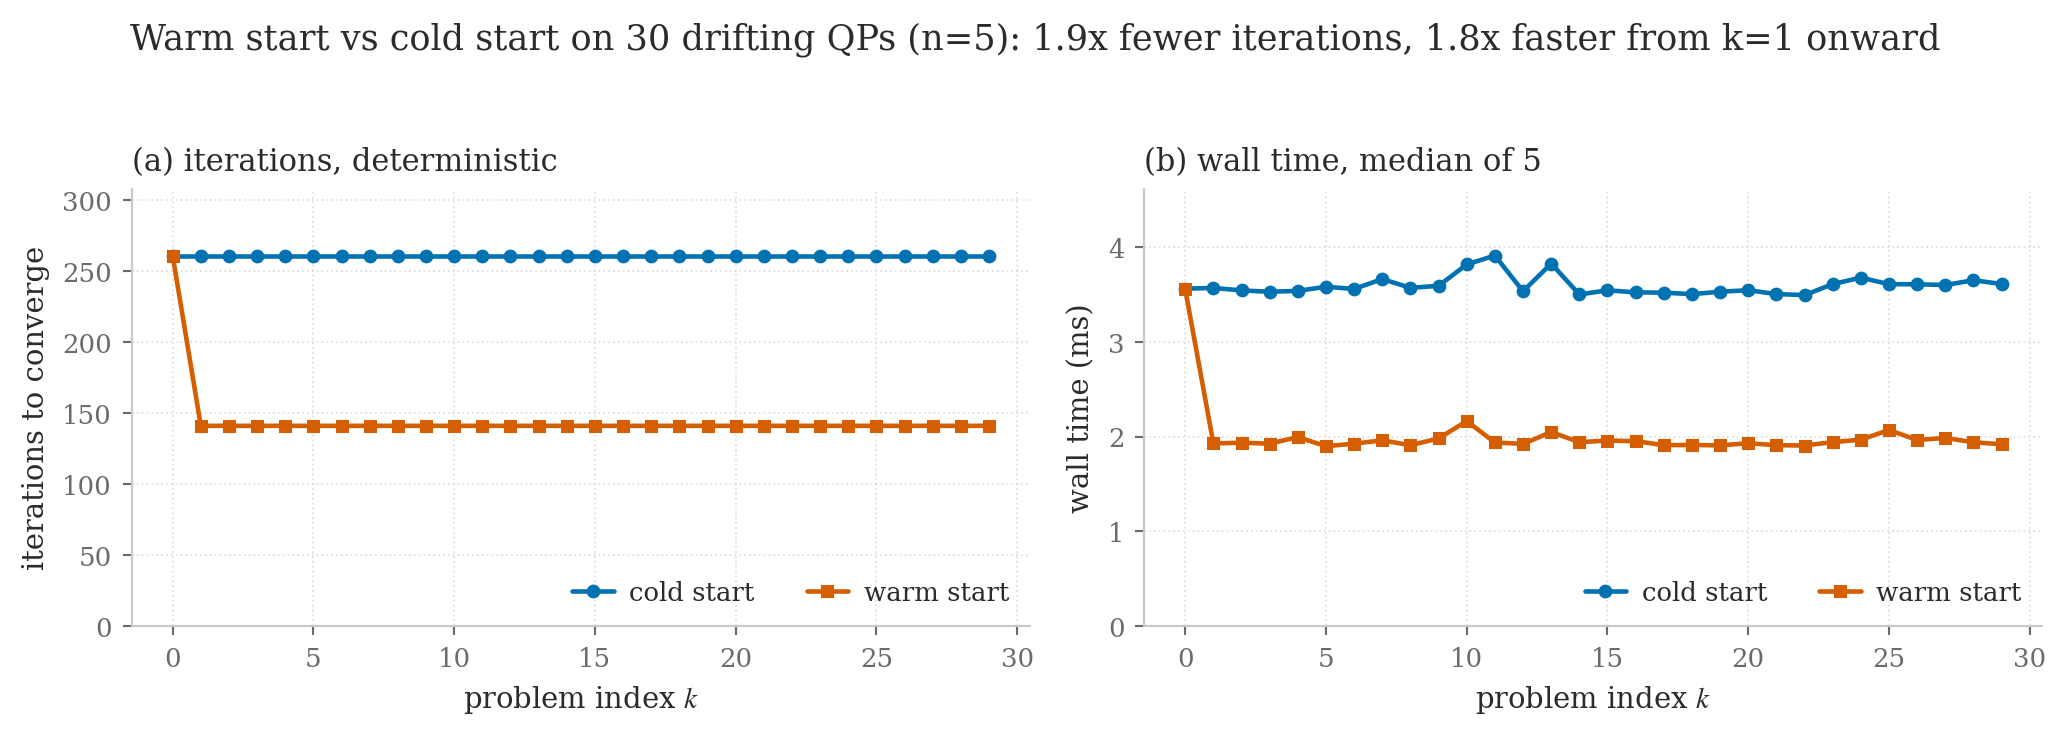
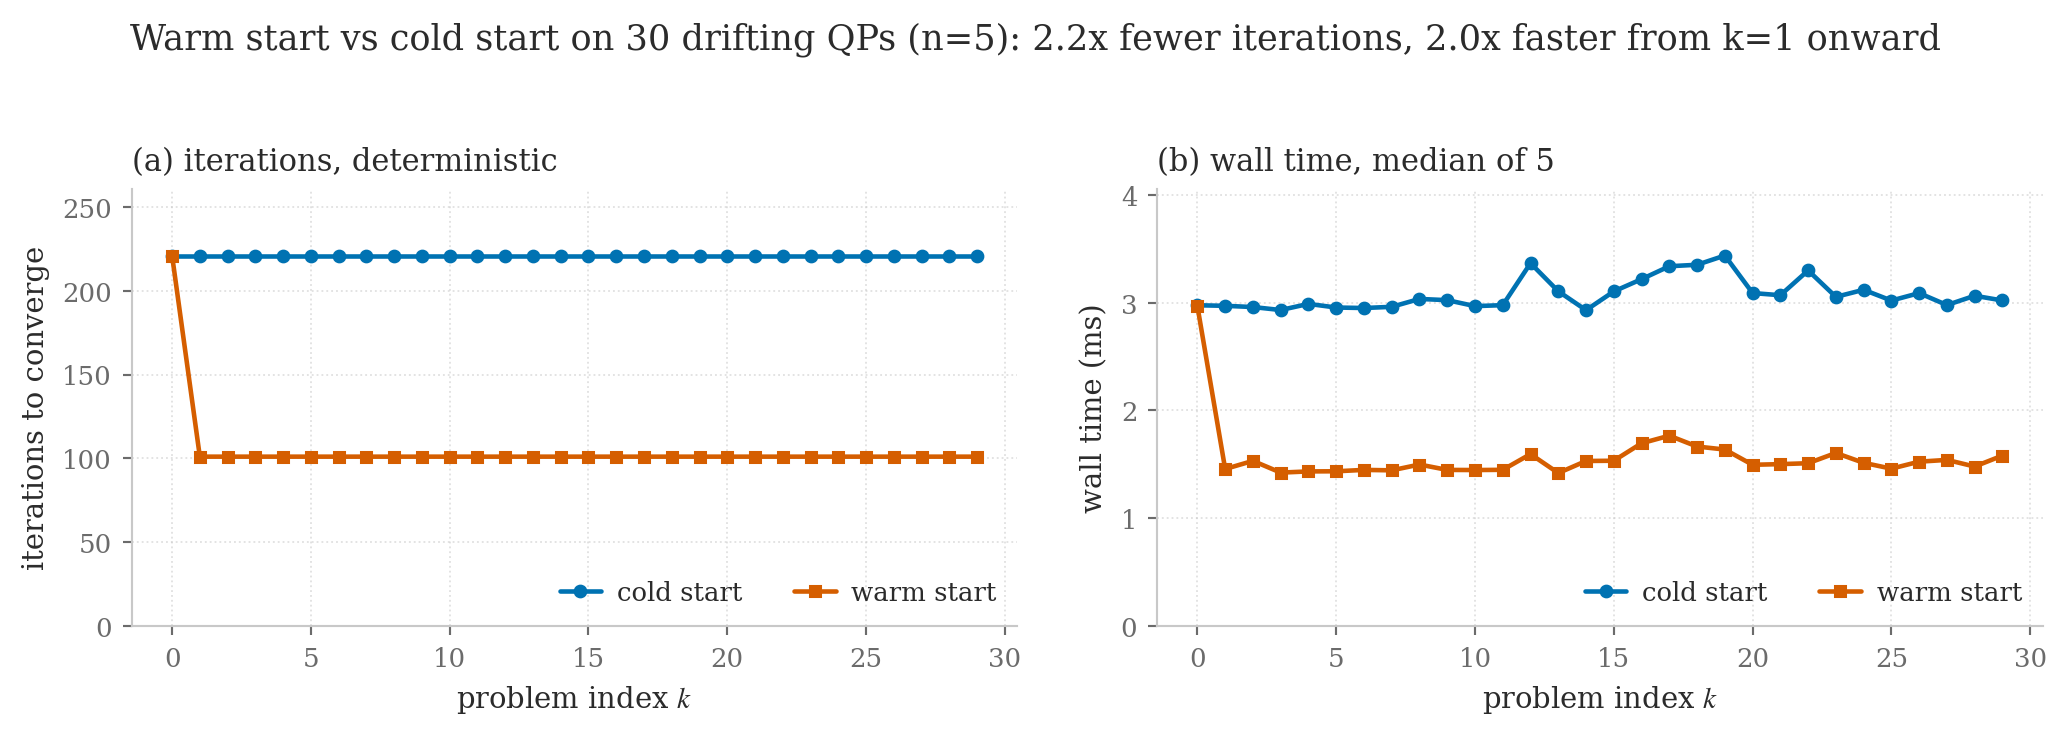
content: overhaul against snn_opt v0.6.0
- v0.6 badge; new Certification section (scale-invariant KKT certificate,
  Figure 1) and Warm starts section (221 -> 101 iterations, 2.19x,
  Figure 3, regenerated under the new criterion)
- stationarity_residual guidance replaced by kkt_residual / kkt_scale
  across quickstart, SVM tutorial and the accuracy section
- corrected the NeurIPS 2020 attribution (Mancoo, Keemink and Machens)
- C-backend claims aligned with actual dispatch (no silent fallback);
  FPGA note updated to the shipped KV260 reference
- em-dashes removed from user-facing prose

diff --git a/README.md b/README.md
@@ -40,9 +40,8 @@ output directory `dist/`. The site is reachable (after CF setup) at
 ```
 src/
 ├── components/   # Reusable Astro components
-├── content/      # MDX content collections (tutorials, posts)
-├── layouts/      # Page layouts (Base.astro and friends)
-├── pages/        # File-based routes
+├── layouts/      # Page layouts (Base.astro, Prose.astro)
+├── pages/        # File-based routes (tutorials are MDX pages)
 └── styles/       # global.css (Tailwind + KaTeX + design-system vars)
 public/
 └── figures/      # Static images, including those mirrored from snn_opt
